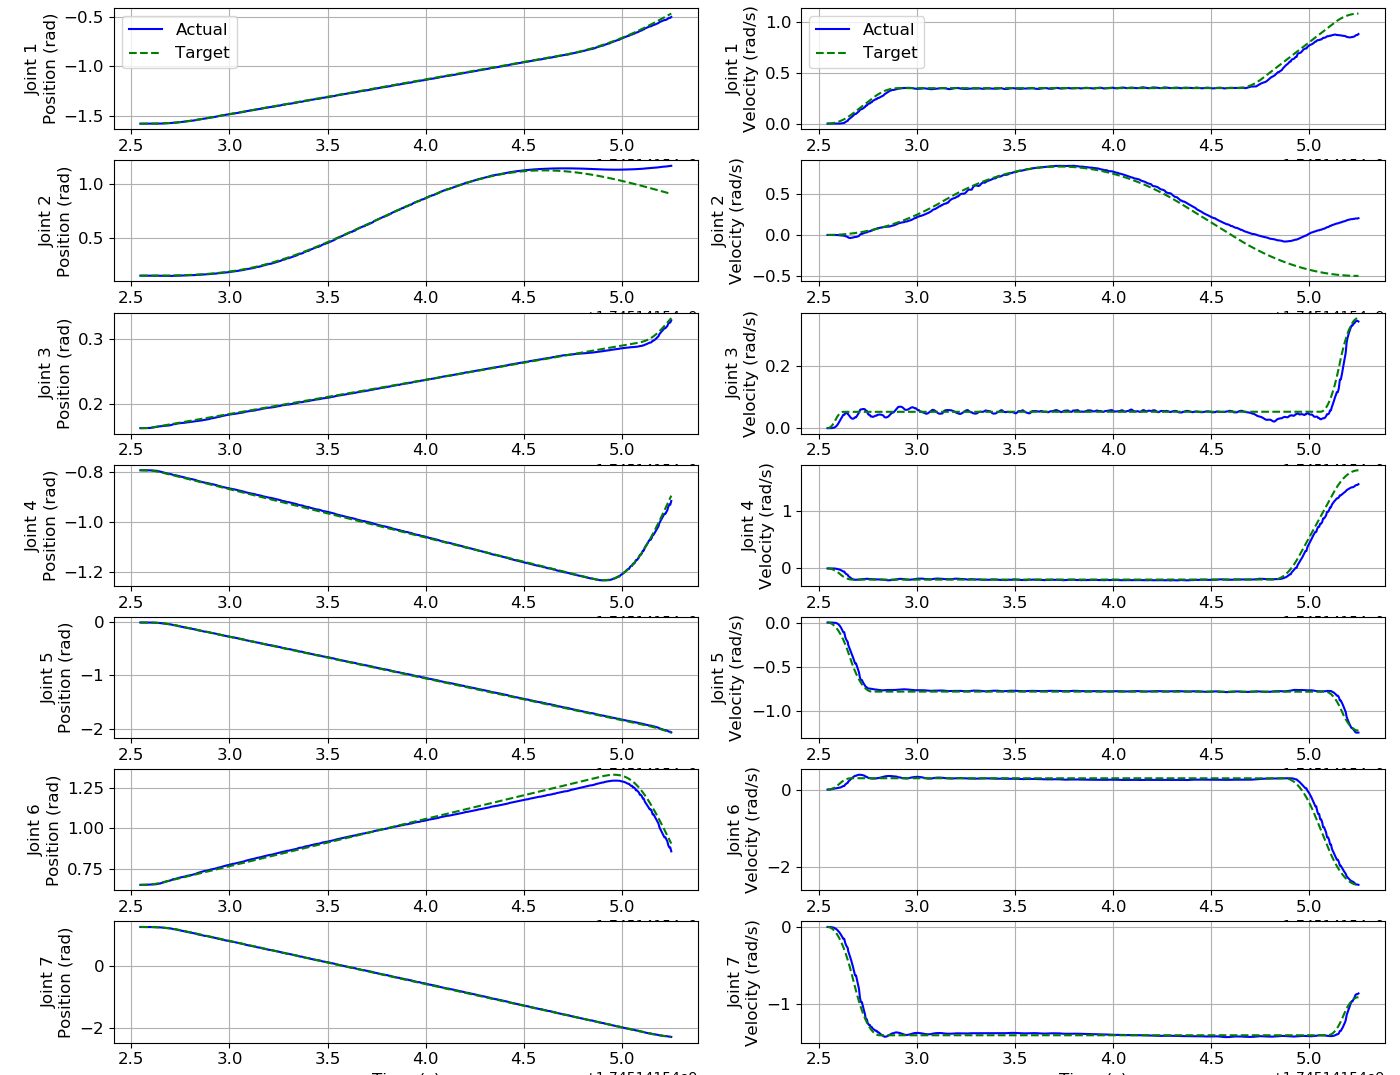
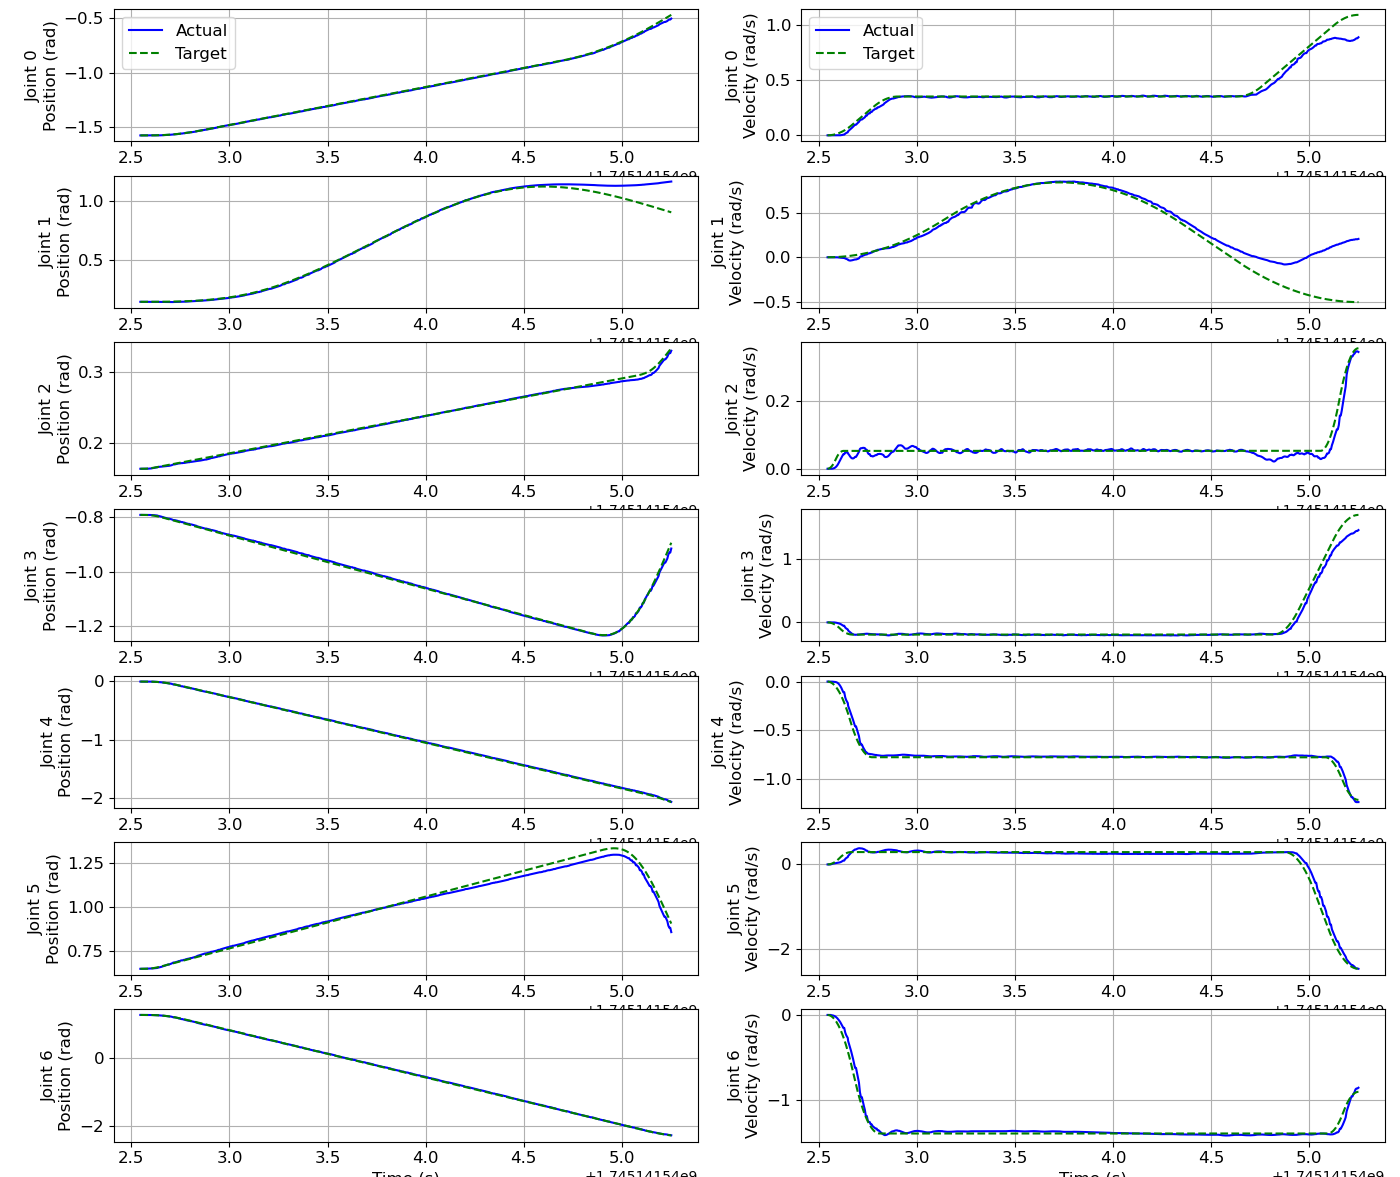
update

diff --git a/src/metrics/evaluation.py b/src/metrics/evaluation.py
@@ -230,7 +230,7 @@ class TrackingEvaluation:
                                    label='Actual', color='blue')
             axs[joint_idx, 0].plot(self.timestamp, self.target_position[:, joint_idx],
                                    label='Target', linestyle='--', color='green')
-            axs[joint_idx, 0].set_ylabel(f'Joint {joint_idx + 1}\nPosition (rad)', fontsize=12)
+            axs[joint_idx, 0].set_ylabel(f'Joint {joint_idx}\nPosition (rad)', fontsize=12)
             axs[joint_idx, 0].grid(True)
             axs[joint_idx, 0].tick_params(axis='both', labelsize=12)
 
@@ -239,7 +239,7 @@ class TrackingEvaluation:
                                    label='Actual', color='blue')
             axs[joint_idx, 1].plot(self.timestamp, self.target_velocity[:, joint_idx],
                                    label='Target', linestyle='--', color='green')
-            axs[joint_idx, 1].set_ylabel(f'Joint {joint_idx + 1}\nVelocity (rad/s)', fontsize=12)
+            axs[joint_idx, 1].set_ylabel(f'Joint {joint_idx}\nVelocity (rad/s)', fontsize=12)
             axs[joint_idx, 1].grid(True)
             axs[joint_idx, 1].tick_params(axis='both', labelsize=12)
 
